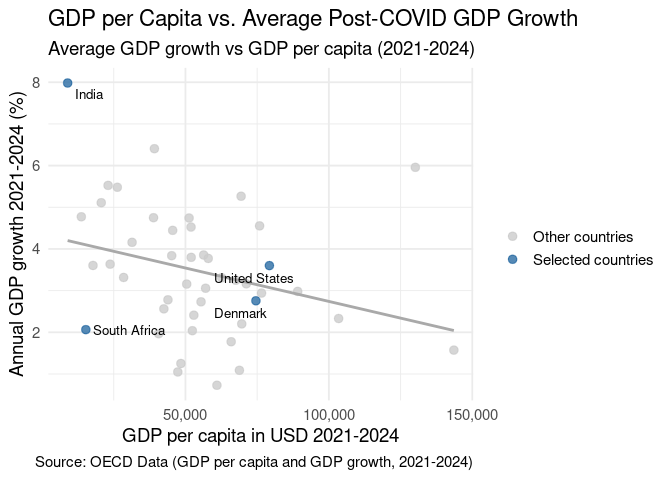
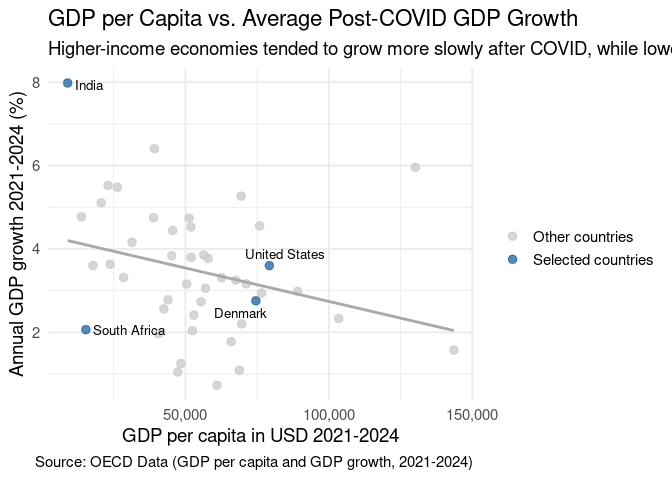
Update Plot 5

Changed region(s): [[0.0625, 0.0625, 1.0, 0.125], [0.3125, 0.5, 0.4688, 0.5938], [0.125, 0.1562, 0.1562, 0.2188]]

diff --git a/memo/memo.md b/memo/memo.md
@@ -520,7 +520,7 @@ growth_income_plot <- growth_vs_income |>
   scale_x_continuous(labels = scales::comma) +
   labs(
     title    = "GDP per Capita vs. Average Post-COVID GDP Growth",
-    subtitle = "Average GDP growth vs GDP per capita (2021-2024)",
+    subtitle = "Higher-income economies tended to grow more slowly after COVID, while lower-income countries grew faster.",
     x        = "GDP per capita in USD 2021-2024",
     y        = "Annual GDP growth 2021-2024 (%)",
     color    = "",
